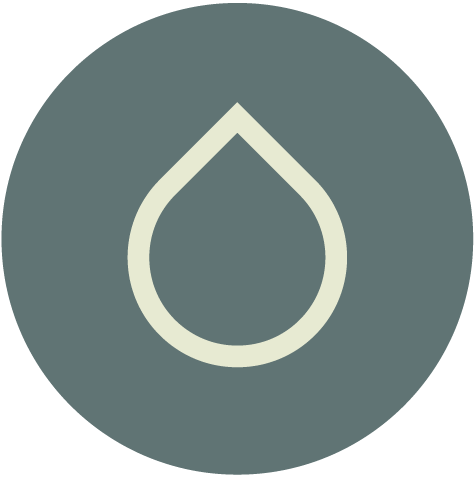
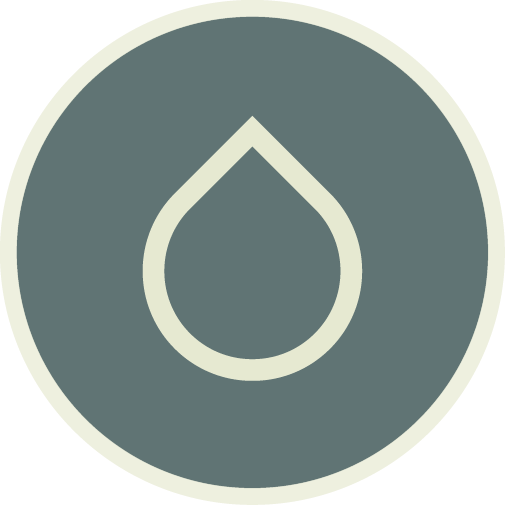
Canopy smoothing (atm if R is pressed), import new ui images

Changed region(s): [[0.0, 0.0, 1.0, 1.0], [0.2653, 0.205, 0.7368, 0.7908], [0.3537, 0.6444, 0.3832, 0.6736]]

diff --git a/Assets/Scripts/TreeGenerator.cs b/Assets/Scripts/TreeGenerator.cs
@@ -49,6 +49,7 @@ public class TreeGenerator : MonoBehaviour
     private List<Vector3> ringBasePositions;
 
     private List<GameObject> branches;
+    private List<GameObject> canopies;
 
     private Random.State initialRandomState;
 
@@ -57,7 +58,7 @@ public class TreeGenerator : MonoBehaviour
         // Initialize and store the random seed
         initialRandomState = Random.state;
 
-        RegenerateTree();
+        RegenerateTree(false);
     }
 
     void Start() 
@@ -69,7 +70,7 @@ public class TreeGenerator : MonoBehaviour
     {
         if (Input.GetKeyDown("r"))
         {
-            RegenerateTree();
+            RegenerateTree(true);
         }
     }
 
@@ -82,7 +83,14 @@ public class TreeGenerator : MonoBehaviour
     {
         previousSize = size;
 
-        StartCoroutine(GenerateSmooth(30, newSize, 0f, 3f));
+        // If the size is large enough, update mesh
+        if (Mathf.Abs(newSize - size) > 0.01f)
+        {
+            StartCoroutine(GenerateSmooth(30, newSize, 0f, 3f));
+        }
+        
+        // If leaves have changed, shrink or expand the canopies
+        // TODO:
     }
 
     IEnumerator GenerateSmooth(int steps, float newSize, float time, float duration)
@@ -94,18 +102,20 @@ public class TreeGenerator : MonoBehaviour
 
         if (rate >= 1f)
         {
+            size = newSize;
+            RegenerateTree(false);
             yield break;
         }
 
         yield return new WaitForSeconds(stepSize);
 
         size = previousSize + rate * (newSize - previousSize);
-        RegenerateTree();
+        RegenerateTree(false);
 
         StartCoroutine(GenerateSmooth(steps, newSize, time, duration));
     }
 
-    private void RegenerateTree()
+    private void RegenerateTree(bool canopyAnimation)
     {
         //size = Random.Range(0.5f, 1.5f);
 
@@ -125,11 +135,11 @@ public class TreeGenerator : MonoBehaviour
         // Generate initial tree params for mesh generation
         NewTreeParameters(TrunkLength);
 
-        // Initialize branches
         branches = new List<GameObject>();
+        canopies = new List<GameObject>();
 
         // Generate the tree
-        GenerateTree();
+        GenerateTree(canopyAnimation);
 
         transform.localScale = Vector3.one * Scale;
     }
@@ -183,13 +193,13 @@ public class TreeGenerator : MonoBehaviour
         }
     }
 
-    private void GenerateTree()
+    private void GenerateTree(bool canopyAnimation)
     {
         var trunk = GenerateBranch(gameObject, transform.position, Vector3.up, 0, TrunkStartThickness, TrunkInterval, TrunkLength);
 
         GenerateTreeRecursive(trunk);
 
-        GenerateCanopy();
+        GenerateCanopy(canopyAnimation);
     }
 
     private void GenerateTreeRecursive(GameObject parent)
@@ -221,7 +231,7 @@ public class TreeGenerator : MonoBehaviour
         }
     }
 
-    private void GenerateCanopy()
+    private void GenerateCanopy(bool canopyAnimation)
     {
         for (var i = 0; i < branches.Count; i++)
         {
@@ -236,10 +246,15 @@ public class TreeGenerator : MonoBehaviour
             // Scale the object
             var branchThickness = branch.GetComponent<Branch>().InitialThickness;
             canopy.transform.rotation = Random.rotation;
-            canopy.transform.localScale = Vector3.one * Mathf.Log(Random.Range(10f, 30f) * branchThickness * size);
 
             // Generate the canopy mesh
             GenerateCanopyMesh(canopy);
+
+            // Give scaling instructions
+            canopy.GetComponent<Canopy>().TargetScale = Vector3.one * Mathf.Log(Random.Range(10f, 30f) * branchThickness * size);
+            canopy.GetComponent<Canopy>().SkipExpansion = !canopyAnimation;
+
+            canopies.Add(canopy);
         }
     }
 

diff --git a/Assets/Scripts/Canopy.cs b/Assets/Scripts/Canopy.cs
@@ -1,0 +1,53 @@
+using System.Collections;
+using System.Collections.Generic;
+using UnityEngine;
+
+public class Canopy : MonoBehaviour
+{
+    private Vector3 originalScale;
+
+    private Vector3 startScale;
+
+    [HideInInspector]
+    public Vector3 TargetScale;
+
+    [HideInInspector]
+    public bool SkipExpansion;
+
+    public float ExpandTime;
+    public float ExpandRandomness;
+
+    private float expandTime;
+    private float expandTimer;
+
+    void Awake()
+    {
+        originalScale = new Vector3(0.1f, 0.1f, 0.1f);
+
+        expandTime = ExpandTime + Random.Range(-ExpandRandomness, ExpandRandomness);
+        expandTimer = 0f;
+    }
+
+    void Start() 
+    {
+        if (SkipExpansion)
+        {
+            expandTimer = expandTime;
+            transform.localScale = TargetScale;
+        }
+        else
+        {
+            startScale = originalScale;
+        }
+    }
+    
+    void Update()
+    {
+        var dt = Time.deltaTime;
+        expandTimer += dt;
+
+        var rate = Mathf.Clamp(expandTimer / expandTime, 0f, 1f);
+
+        transform.localScale = Vector3.Lerp(startScale, TargetScale, rate);
+    }
+}
